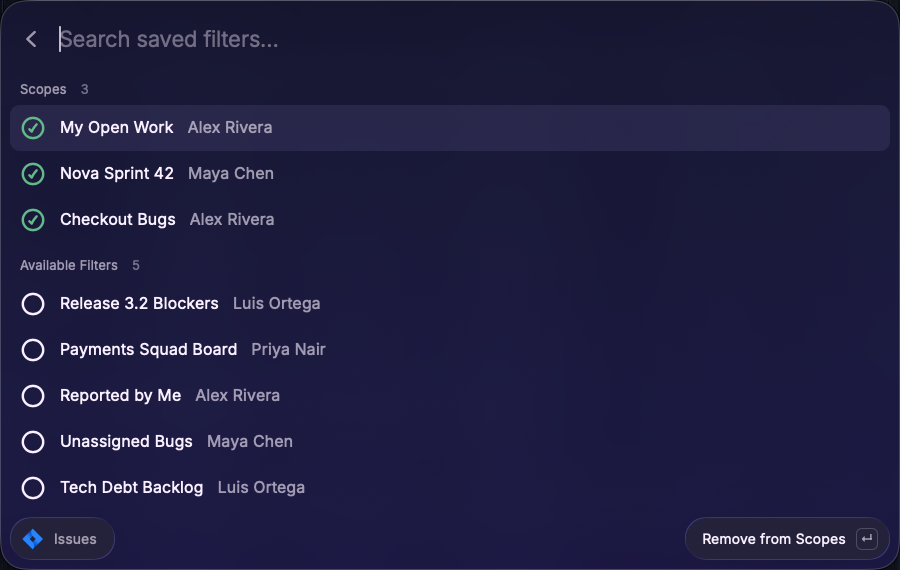
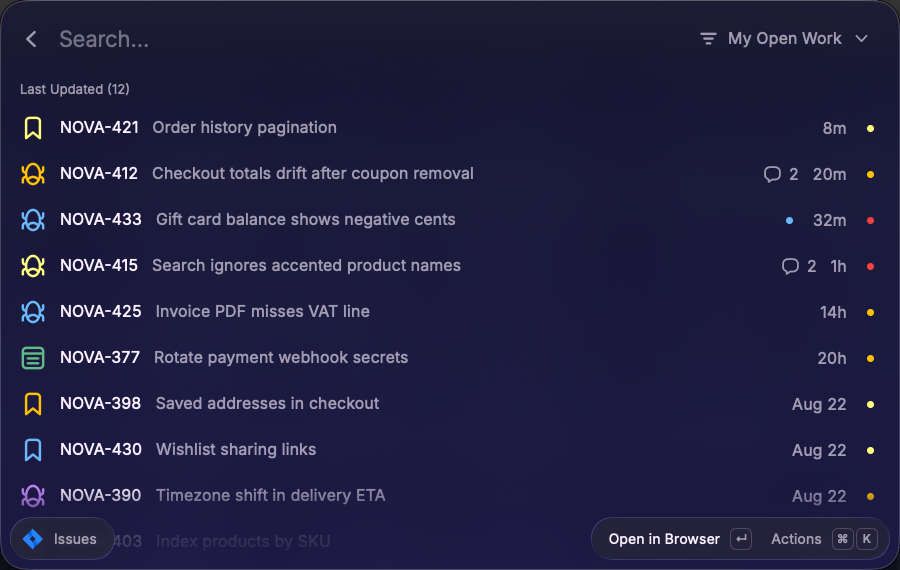
docs: add screenshots per feature section

diff --git a/README.md b/README.md
@@ -6,8 +6,6 @@
 
 ![Issues grouped by actionable status](metadata/jira-navigator-1.png)
 
-![Manage Scopes](metadata/jira-navigator-2.png)
-
 ## Commands
 
 | Command    | What it does                                                                 |
@@ -19,23 +17,23 @@
 
 One list, grouped by what each ticket needs from you, most urgent first:
 
-- **BLOCKED** - flagged / impediment tickets, whatever their status.
-- **REVIEW** - status `Review`.
-- **READY FOR DEPLOYMENT** - status `Ready for Deployment`.
-- **IN PROGRESS** - any other `In Progress` category status.
-- **TO DO** - `To Do` category.
-- **RECENTLY DONE** - completed within the last N days (configurable).
+- `Blocked`: flagged, whatever the status.
+- `Review` and `Ready for Deployment`: those exact statuses.
+- `In Progress` and `To Do`: everything else in each status category.
+- `Recently Done`: completed within the last N days, configurable.
 
 The named sections come before the category catch-alls, so a new or unknown
-in-progress status still surfaces. Empty sections are hidden. The list opens as
-a flat **Last Updated** sort; `⌘S` cycles on to the sectioned grouping, then
-Creation Date and Priority, and the mode you leave it on is remembered for the
+in-progress status still surfaces. Empty sections are hidden. The list opens as a
+flat **Last Updated** sort; `⌘S` cycles on to the sectioned grouping, then
+**Creation Date** and **Priority**, and the mode you leave it on is remembered for the
 next launch. Within the sectioned grouping, tickets read oldest-created first,
 so the longest-waiting ones surface at the top. The date accessory shows the
-date the active view sorts by: creation date in the sectioned grouping and
-Creation Date views, last update elsewhere. The flat sorts keep each ticket
+date the active view sorts by: **creation date** in the sectioned grouping and
+Creation Date views, **last update** elsewhere. The flat sorts keep each ticket
 tinted with its section color; typing filters by key, number, summary, status,
 or type.
+
+![Last Updated sort, tickets tinted by section](metadata/jira-navigator-2.png)
 
 ### Scopes
 
@@ -46,12 +44,16 @@ yours, shared, any name - and ⏎ toggles which appear in the scope dropdown.
 The selection is stored locally, so each teammate on a shared account curates
 their own; reopening Manage Scopes syncs renames and deletions made in Jira.
 
+![Scope dropdown](metadata/jira-navigator-3.png)
+
 Jira's built-in filters ("My open issues", "Reported by me", …) are not saved
 filters and cannot be referenced by the API; use "Save as" in Jira once, then
-select the copy. RECENTLY DONE is windowed client-side, so long-done tickets
+select the copy. `Recently Done` is windowed client-side, so long-done tickets
 fetched by a filter (say, requirements you reported) stay reachable in the
 flat sorts. With nothing selected, a fallback scope shows your last 48 hours
 of assigned activity, newest first.
+
+![Manage Scopes](metadata/jira-navigator-4.png)
 
 ### Activity
 
@@ -67,15 +69,21 @@ shows immediately but is held for a few seconds (configurable), during which
 Jira screen or required field are omitted - open those in the browser. This is
 the extension's only write action.
 
+![Change Status submenu](metadata/jira-navigator-5.png)
+
+![Status change held with Undo](metadata/jira-navigator-6.png)
+
 ### Copy actions
 
 | Shortcut | Copies                          |
 | -------- | ------------------------------- |
-| ⌥+C      | Issue key (`PROD-123`)          |
+| ⌥+C      | Issue key (`NOVA-000`)          |
 | ⌘+C      | URL                             |
 | ⌘+⌥+C    | Key and summary                 |
 | ⌘+⇧+C    | Markdown link                   |
 | ⌘+⇧+⌥+C  | Markdown link with summary      |
+
+![Action panel with copy shortcuts](metadata/jira-navigator-7.png)
 
 ### Hiding
 
@@ -101,9 +109,9 @@ case-insensitive) → `category` (To Do / In Progress / Done). Colors: `red`,
 
 ## Open Issue
 
-Give it a key (`PROD-1234`) as an argument, or leave it empty to read the
+Give it a key (`NOVA-1234`) as an argument, or leave it empty to read the
 clipboard, and the ticket opens in the browser. A bare number uses the
-**Fallback Project Key** preference (`1234` opens `PROD-1234`); any other text
+**Fallback Project Key** preference (`1234` opens `NOVA-1234`); any other text
 opens Issues pre-filtered by that term. Supports tab reuse: an already-open
 tab for the ticket is focused instead of spawning a new one.
 
@@ -113,7 +121,7 @@ tab for the ticket is focused instead of spawning a new one.
 - **Account Email** - Atlassian account email for the API token.
 - **API Token** - Atlassian API token.
 - **Fallback Project Key** - project assumed when Open Issue gets a bare number.
-- **Recently Done Threshold (days)** - RECENTLY DONE window (default 3, 0 hides Done).
+- **Recently Done Threshold (days)** - `Recently Done` window (default 3, 0 hides Done).
 - **Status Change Delay (seconds)** - Undo window before a status change reaches Jira.
 - **Section Config** - JSON array overriding the default sections.
 - **Browser / Tab Reuse / Browser App Override** - which browser opens tickets; Chromium browsers and Safari can focus an already-open tab.
